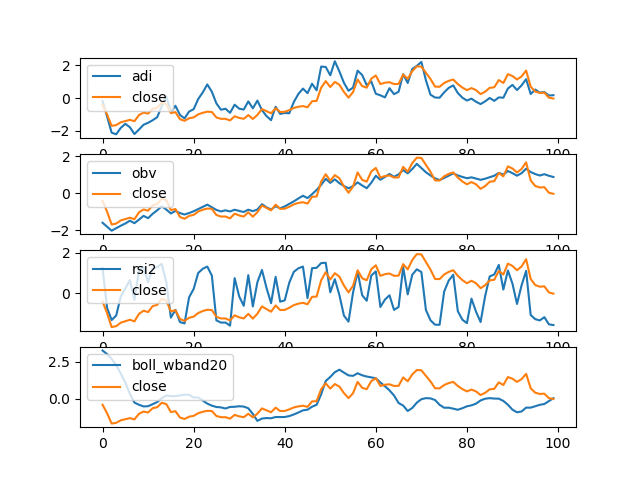
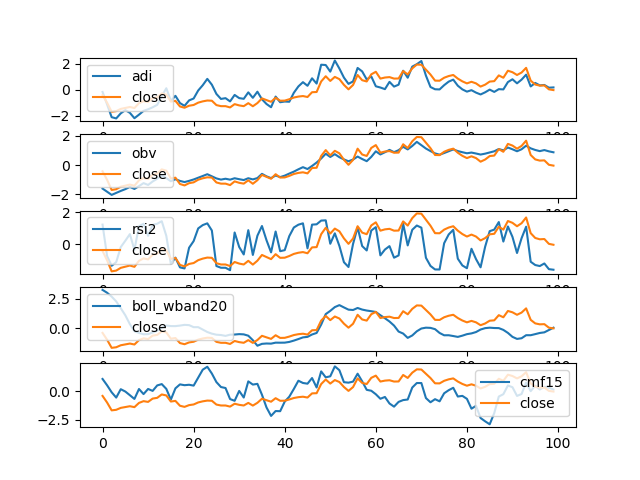
up

diff --git a/stock.py b/stock.py
@@ -6,6 +6,7 @@ import glob
 import seaborn as sns
 from sklearn.model_selection import train_test_split
 from sklearn.preprocessing import StandardScaler
+from sklearn.preprocessing import MinMaxScaler
 from xgboost import XGBClassifier
 from xgboost import XGBRegressor
 from sklearn.model_selection import RandomizedSearchCV
@@ -235,14 +236,115 @@ def add_long_crossover_info(data):
 
     return new_data
 
+def add_bollinger_band_info(data):
+    new_data = data.reset_index(drop=True)
+    #N = [20, 14, 12, 10, 5, 4, 3, 2]
+    N = [20]
+    for n in N:
+        bb = ta.volatility.BollingerBands(close=new_data.iloc[-1::-1].close, n=n, ndev=2)
+        col = 'boll_hband%d' % n
+        new_data[col] = bb.bollinger_hband()
+        temp = new_data.iloc[1:][col].tolist()
+        temp.append(np.nan)
+        new_data['pre_%s' % col] = temp
+
+        col = 'boll_lband%d' % n
+        new_data[col] = bb.bollinger_lband()
+        temp = new_data.iloc[1:][col].tolist()
+        temp.append(np.nan)
+        new_data['pre_%s' % col] = temp
+
+        col = 'boll_hband_ind%d' % n
+        new_data[col] = bb.bollinger_hband_indicator()
+        temp = new_data.iloc[1:][col].tolist()
+        temp.append(np.nan)
+        new_data['pre_%s' % col] = temp
+
+        col = 'boll_lband_ind%d' % n
+        new_data[col] = bb.bollinger_lband_indicator()
+        temp = new_data.iloc[1:][col].tolist()
+        temp.append(np.nan)
+        new_data['pre_%s' % col] = temp
+
+        col = 'boll_mavg%d' % n
+        new_data[col] = bb.bollinger_mavg()
+        temp = new_data.iloc[1:][col].tolist()
+        temp.append(np.nan)
+        new_data['pre_%s' % col] = temp
+
+        col = 'boll_pband%d' % n
+        new_data[col] = bb.bollinger_pband()
+        temp = new_data.iloc[1:][col].tolist()
+        temp.append(np.nan)
+        new_data['pre_%s' % col] = temp
+
+        col = 'boll_wband%d' % n
+        new_data[col] = bb.bollinger_wband()
+        temp = new_data.iloc[1:][col].tolist()
+        temp.append(np.nan)
+        new_data['pre_%s' % col] = temp
+
+    return new_data
+
+def add_obv_info(data):
+    new_data = data.reset_index(drop=True)
+    obv = ta.volume.OnBalanceVolumeIndicator(close=new_data.iloc[-1::-1].close, volume=new_data.iloc[-1::-1].vol)
+    new_data['obv'] = obv.on_balance_volume()
+    temp = new_data.iloc[1:]['obv'].tolist()
+    temp.append(np.nan)
+    new_data['pre_obv'] = temp
+
+    return new_data
+
+def add_adi_info(data):
+    new_data = data.reset_index(drop=True)
+    adi = ta.volume.AccDistIndexIndicator(high=new_data.iloc[-1::-1].high, low=new_data.iloc[-1::-1].low, close=new_data.iloc[-1::-1].close, volume=new_data.iloc[-1::-1].vol)
+    new_data['adi'] = adi.acc_dist_index()
+    temp = new_data.iloc[1:]['adi'].tolist()
+    temp.append(np.nan)
+    new_data['pre_adi'] = temp
+
+    return new_data
+
+def add_cmf_info(data):
+    new_data = data.reset_index(drop=True)
+    days = [2,5,10,15,20,30]
+    for day in days:
+        cmf = ta.volume.ChaikinMoneyFlowIndicator(high=new_data.iloc[-1::-1].high, low=new_data.iloc[-1::-1].low, close=new_data.iloc[-1::-1].close, volume=new_data.iloc[-1::-1].vol, n=day)
+        col = "cmf%d" % day
+        new_data[col] = cmf.chaikin_money_flow()
+        temp = new_data.iloc[1:][col].tolist()
+        temp.append(np.nan)
+        new_data["pre_%s" % col] = temp
+
+    return new_data
+
 def add_features(data):
     new_data = add_preday_info(data)
     new_data = add_ma_info(new_data)
     new_data = add_rsi_info(new_data)
     new_data = add_crossover_info(new_data)
     new_data = add_long_crossover_info(new_data)
+    new_data = add_bollinger_band_info(new_data)
+    new_data = add_obv_info(new_data)
+    new_data = add_adi_info(new_data)
+    new_data = add_cmf_info(new_data)
 
     return new_data
+
+def plot_data(data, days, close, cols):
+    x = range(days)
+    count = 0
+    fig, ax = plt.subplots(len(cols))
+    for col in cols:
+        vals1 = data.iloc[0:days].iloc[-1::-1][col].to_numpy()
+        vals2 = data.iloc[0:days].iloc[-1::-1][close].to_numpy()
+        sns.lineplot(x=x, y=StandardScaler().fit_transform(vals1.reshape(-1,1)).flatten(), ax=ax[count])
+        sns.lineplot(x=x, y=StandardScaler().fit_transform(vals2.reshape(-1,1)).flatten(), ax=ax[count])
+        ax[count].legend([col, close])
+        count += 1
+    plt.savefig('pattern.png')
+
 
 class Model:
     def __init__(self, columns):
@@ -321,9 +423,10 @@ if __name__ == "__main__":
     data = data.dropna(axis=0)
     print("data length: %d" % len(data))
     data = add_features(data)
+    plot_data(data, 100, 'close', ['adi', 'obv', 'rsi2', 'boll_wband20', 'cmf15'])
 
-    model = Model(data.columns.tolist())
-    model.train(data.iloc[predict_days - 1:-200])
-    #print(model.predict(data))
-    model.plot(data, 30, args.stock)
-    model.feature_importance()
+    #model = Model(data.columns.tolist())
+    #model.train(data.iloc[predict_days - 1:-200])
+    ##print(model.predict(data))
+    #model.plot(data, 30, args.stock)
+    #model.feature_importance()

diff --git a/README.md b/README.md
@@ -1,5 +1,7 @@
 # stock_analysis
 
+**请不要用我的token，注册tushare-pro可以获取免费token：[tushare-pro](https://tushare.pro/register?reg=393010)**
+
  - 2020-09-21 update: add ema info, both **sma(simple moving average)** and **ema(exponential moving average)**. it seems that ema is more sensitive than sma for ema weighting more on recent prices. for short-swing trading, you should focus on short period ema crossover, because the crossovers tell you the trends. especially shorter period ema breaking through longer period ema upward is a strong signal that the price of this stock is going up and it is time to hold this stock and wait for a right time to sell. but the buy time is earlier than this crossover. and it seems that 100-day ema is very important, maybe because 100 days is near the market cycle? the feature importance just implies this conclusion.
 
  ```
